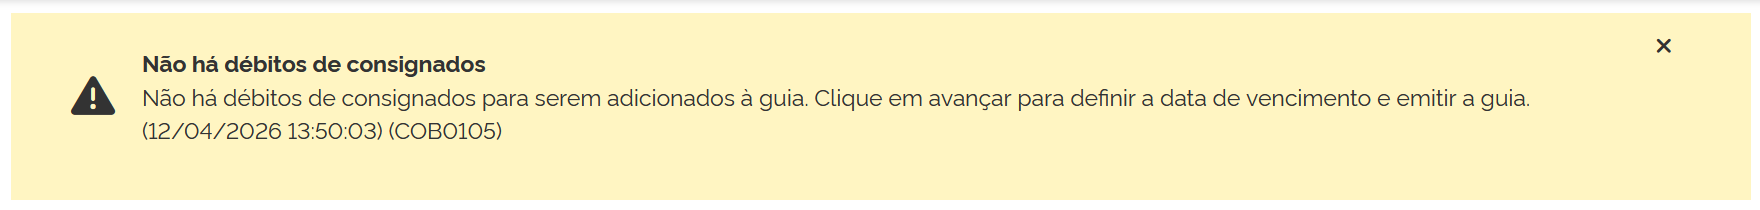
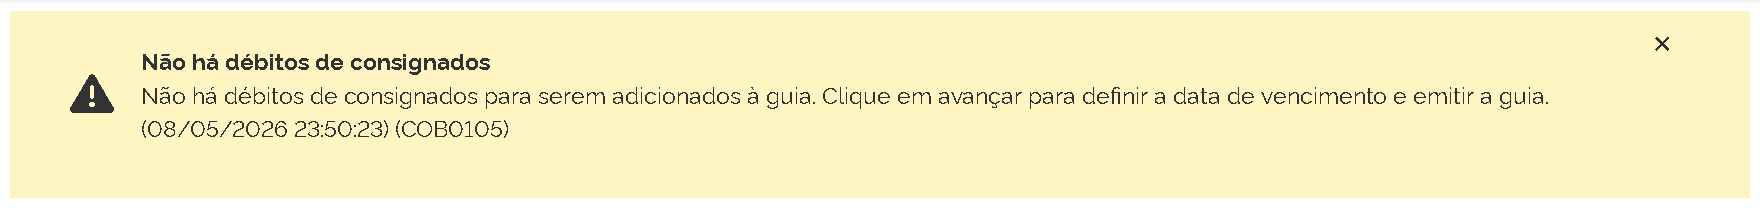
ajustado cliques dos parametros de guias a emitir

diff --git a/tests/test_parametrizacao.py b/tests/test_parametrizacao.py
@@ -19,24 +19,24 @@ def test_fluxo_final():
     time.sleep(7)
     try:
         print("📁 Localizando parametrização...")
-        pos_parametrizacao = localizar_parametros()
-        pyautogui.click(pos_parametrizacao[0] - 620, pos_parametrizacao[1] + 20)
-        esperar(1.5, check_stop_callback)
-        verificar_parada(check_stop_callback)
+        # pos_parametrizacao = localizar_parametros()
+        # pyautogui.click(pos_parametrizacao[0] - 610, pos_parametrizacao[1] + 20)
+        # esperar(1.5, check_stop_callback)
+        # verificar_parada(check_stop_callback)
 
-        pyautogui.click(pos_parametrizacao[0] - 190, pos_parametrizacao[1] + 20)
-        esperar(1.5, check_stop_callback)
-        verificar_parada(check_stop_callback)
+        # pyautogui.click(pos_parametrizacao[0] - 190, pos_parametrizacao[1] + 20)
+        # esperar(1.5, check_stop_callback)
+        # verificar_parada(check_stop_callback)
 
-        pyautogui.click(pos_parametrizacao[0] + 90, pos_parametrizacao[1] + 20)
-        esperar(1.5, check_stop_callback)
-        verificar_parada(check_stop_callback)  
-        time.sleep(2)
+        # pyautogui.click(pos_parametrizacao[0] + 90, pos_parametrizacao[1] + 20)
+        # esperar(1.5, check_stop_callback)
+        # verificar_parada(check_stop_callback)  
+        # time.sleep(2)
 
-        # pos_btn_pesquisar = localizar_btn_pesquisar2()
-        # if pos_btn_pesquisar:
-        #     pyautogui.click(pos_btn_pesquisar[0] + 150, pos_btn_pesquisar[1])
-        #     esperar(3, check_stop_callback)
+        pos_btn_pesquisar = localizar_btn_pesquisar2()
+        if pos_btn_pesquisar:
+            pyautogui.click(pos_btn_pesquisar[0] + 150, pos_btn_pesquisar[1])
+            esperar(3, check_stop_callback)
 
         try:
             print("📁 Localizando itens consignado...")

diff --git a/src/services/fgts_digital_site.py b/src/services/fgts_digital_site.py
@@ -601,7 +601,7 @@ def consultar_fgts_digital_site(empresa_id, db_config, pasta_destino, abrir_nave
     # Localiza parametrização e desmarca
     print("📁 Localizando parametrização...")
     pos_parametrizacao = localizar_parametros()
-    pyautogui.click(pos_parametrizacao[0] - 620, pos_parametrizacao[1] + 20)
+    pyautogui.click(pos_parametrizacao[0] - 610, pos_parametrizacao[1] + 20)
     esperar(1.5, check_stop_callback)
     verificar_parada(check_stop_callback)
 
